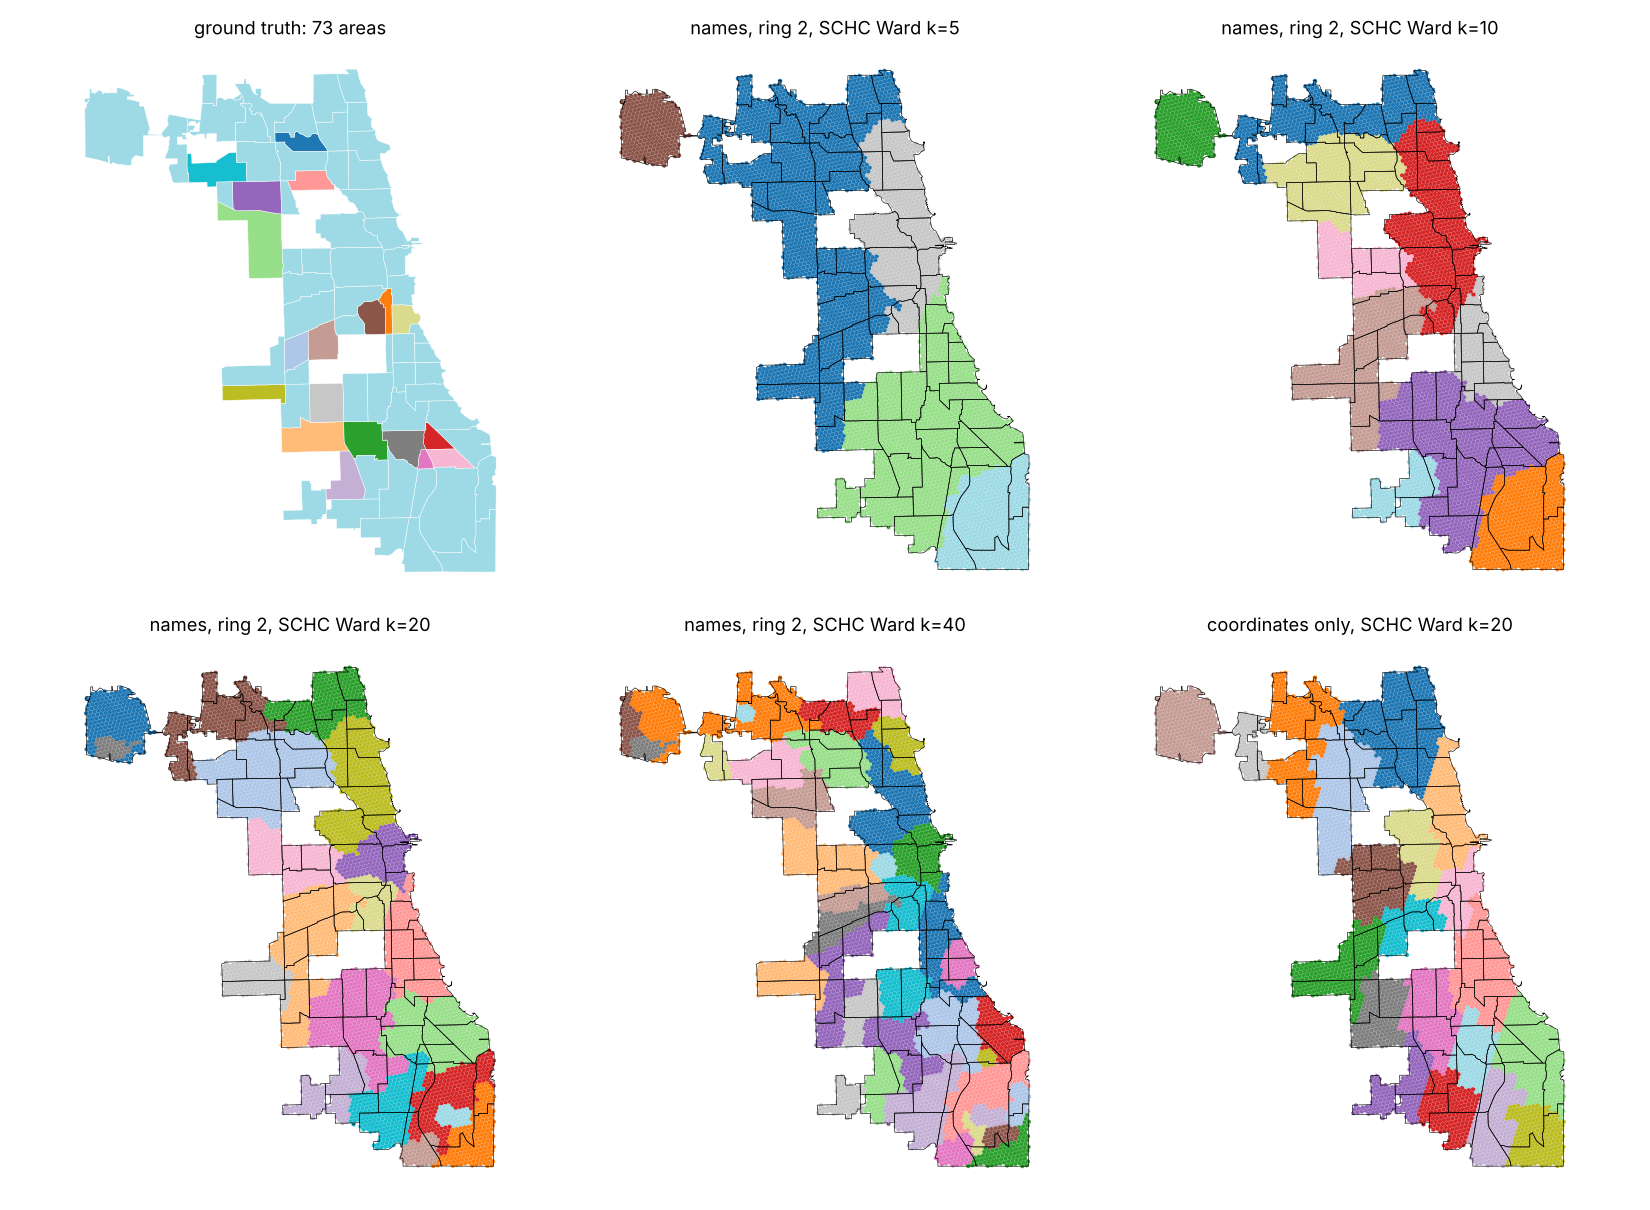
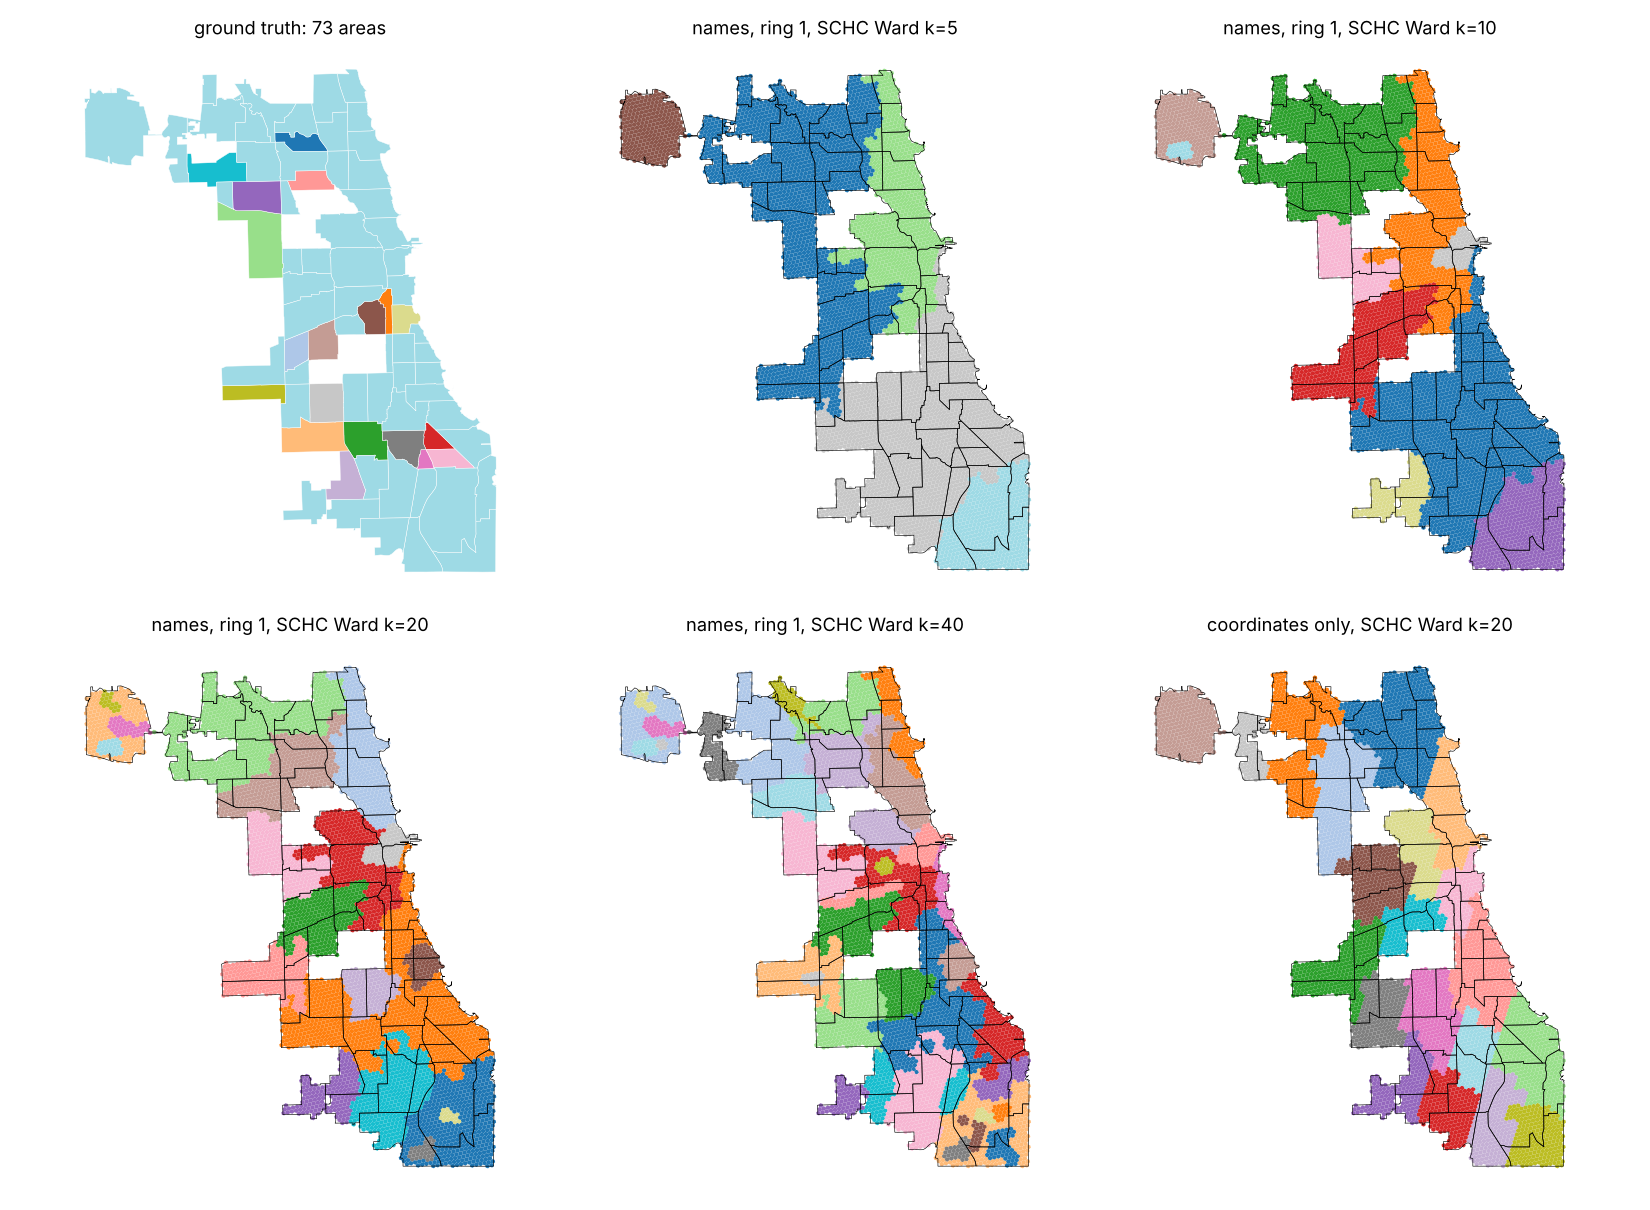
Chicago reading and ring-1 maps
Claude-Session: https://claude.ai/code/session_01MHdy1RauHgNnG7GD93wZiJ

diff --git a/notes/2026-10-06-chicago-signal-check-r9.md b/notes/2026-10-06-chicago-signal-check-r9.md
@@ -5,6 +5,29 @@ Ground truth: Overture macrohoods inside the Chicago locality (73 of the 77 comm
 Cells: 5318 H3-9 cells (centroid inside the union of the 73 polygons), 2 graph component(s) before bridging; 4449 cells with at least one token; tokens per cell p10/p25/p50/p75/p90 = 0/4/16/56/140.
 Features: 7340 tokens with cell-df in [5, 20% of cells] on unsmoothed counts; counts summed over the k-ring (`ring`); sqrt(tf)·idf, L2 per cell, truncated SVD to 30. One token per distinct name per cell.
 
+## Reading
+
+1. Chicago is where names come closest to standing on their own. Unsmoothed, Ward on
+   names reaches ARI 0.19 at k = 73 (null 0.00) with the largest region at 22% of cells,
+   not the 70% collapse of SF and Vancouver: 5,318 cells give Ward enough dense
+   neighbours to grow regions. With 1-ring smoothing names reach 0.36 at k = 73 against a
+   null of 0.10, a gap of +0.26, the largest of the four cities; coordinates-only is 0.39
+   and the random floor 0.38, so on ARI geography still ties it.
+2. The ring-1, k = 20 regions are the airports (O'Hare and Midway as their own regions,
+   on airline and cargo tokens), the Lower West Side as pilsen / villita / tortilleria,
+   bridgeport / chinatown / wicker / bucktown lumped by the Ward cut, Hyde Park and
+   Kenwood as hyde / uchicago / quadrangle, Englewood, Beverly, Roseland / Pullman,
+   Hegewisch / Calumet, the North Lawndale institutions (homan, kipp), Edgebrook /
+   Sauganash / the kosher cluster (zabiha, bais) on the far north side. The Loop comes
+   out as a region of law and finance tokens (divorce, valuation). These are the names
+   businesses use; the 1920s community-area names are recovered where they are also the
+   living name (Englewood, Beverly, Roseland, Hegewisch) and not where they are not
+   (Near North Side, Near West Side, West Town, Lower West Side), which is what the
+   Cadmus-links naming test found.
+3. Ground truth is provisional: 73 of the 77 community areas (Logan Square, Humboldt
+   Park, New City and Gage Park are missing from the Overture release), so those four
+   areas' cells are outside the cell set; two graph components (O'Hare) bridged.
+
 ## Agreement with the 73 areas
 
 ARI/NMI over all cells (ground truth = polygon containing the cell centroid). `largest` is the share of cells in the biggest region.
@@ -67,27 +90,27 @@ ARI/NMI over all cells (ground truth = polygon containing the cell centroid). `l
 | 2      |  73 | null: names dealt to random cells (mean of 5) |  0.375 | 0.751 |   nan     |
 | 2      |  73 | k-means on names, no contiguity               |  0.357 | 0.735 |   nan     |
 
-## Lifted tokens per region, names ring 2, k=20
+## Lifted tokens per region, names ring 1, k=20
 
-- region 0: qatar, sas, ord, swissport, ohare, hare
-- region 1: cragin, mont, galewood, kelvyn, portage, dunning
-- region 2: hegewisch, eastside, tapatio, lanes, norfolk, florian
-- region 3: indio, comales, villita, brighton, fruteria, milagro
-- region 4: zabiha, bais, lincolnwood, lubavitch, sauganash, morse
-- region 5: stony, chatham, josephine, avalon, townsend, jeffery
-- region 6: calumet, skyway, pullman, amigos, salem, norfolk
-- region 7: bronzeville, hyde, kenwood, quadrangle, obama, drexel
-- region 8: saic, ontario, divorce, iparkit, greektown, clothiers
-- region 9: beverly, hills, greenwood, tommie, xavier, wholistic
-- region 10: edgebrook, norwood, gladstone, cumberland, bankers, edison
-- region 11: altgeld, carver, lively, convenience, trades, concordia
-- region 12: englewood, auburn, xperience, gresham, fernwood, tish
-- region 13: habilitative, tilton, homan, douglass, kipp, westside
-- region 14: cargo, fcu, newsstand, swissport, berghoff, airline
-- region 15: mdw, clearing, aeropuerto, midway, caray, hale
-- region 16: sheffield, clarendon, exlsly, southport, clybourn, wicker
-- region 17: bridgeport, chinatown, hotpot, dim, pilsen, liu
-- region 18: roseland, pullman, marshfield, pipe, humble, jurisdiction
-- region 19: marsh, processing, port, railroad, liquid, materials
+- region 0: hegewisch, calumet, tapatio, norfolk, eastside, task
+- region 1: jarvis, clarendon, lac, sather, sheffield, edgewater
+- region 2: ashburn, pisgah, stony, gulf, auburn, sox
+- region 3: entry, enrollment, cargo, aviation, airline, flights
+- region 4: milagro, lineage, villita, brighton, teloloapan, tortilleria
+- region 5: edgebrook, zabiha, bais, ewa, sauganash, norwood
+- region 6: chinatown, wicker, humboldt, bucktown, bridgeport, hotpot
+- region 7: mdw, midway, clearing, aeropuerto, fonseca, caray
+- region 8: beverly, hills, greenwood, tommie, xavier, celtic
+- region 9: englewood, antioch, canaan, tish, benedict, seashell
+- region 10: hyde, quadrangle, cornell, uchicago, kenwood, drexel
+- region 11: cragin, galewood, avondale, kelvyn, mont, hermosa
+- region 12: sas, qatar, ord, swissport, uso, airways
+- region 13: tilton, lawndale, homan, kipp, habilitative, kostner
+- region 14: altgeld, carver, trades, tca, lively, cics
+- region 15: divorce, iparkit, gynecologic, valuation, manhattan, centric
+- region 16: ohare, delta, hare, airport, terminal, airlines
+- region 17: marsh, processing, nature, trail, steel, indian
+- region 18: roseland, pullman, chesterfield, fernwood, langley, dominique
+- region 19: cargo, fcu, newsstand, swissport, berghoff, ord
 
 Maps: `figures/2026-10-06-chicago-signal-check-r9-maps.png`, `figures/2026-10-06-chicago-signal-check-r9-density.png`.
